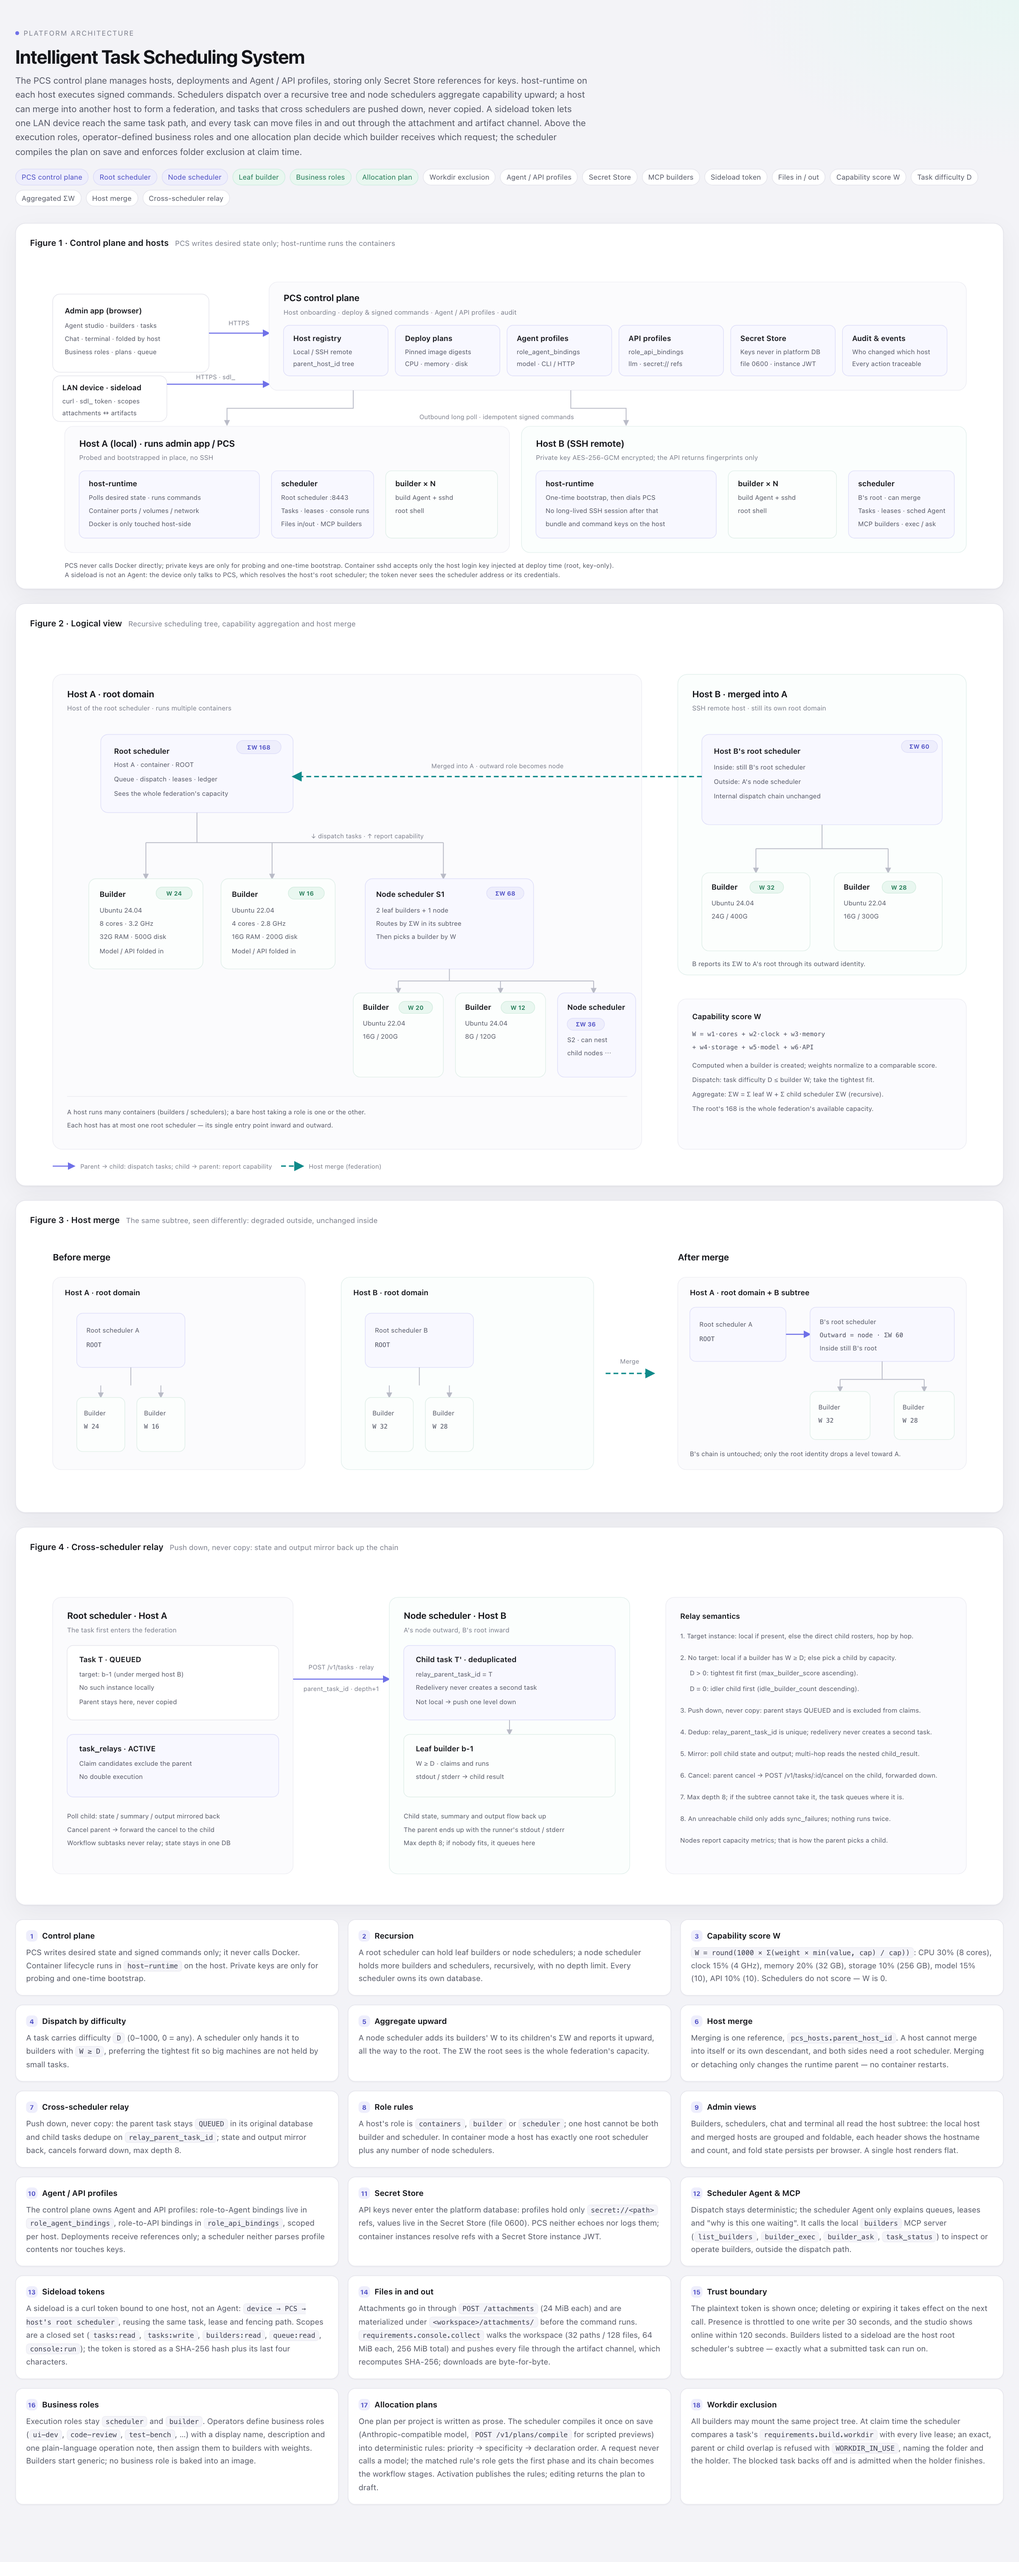
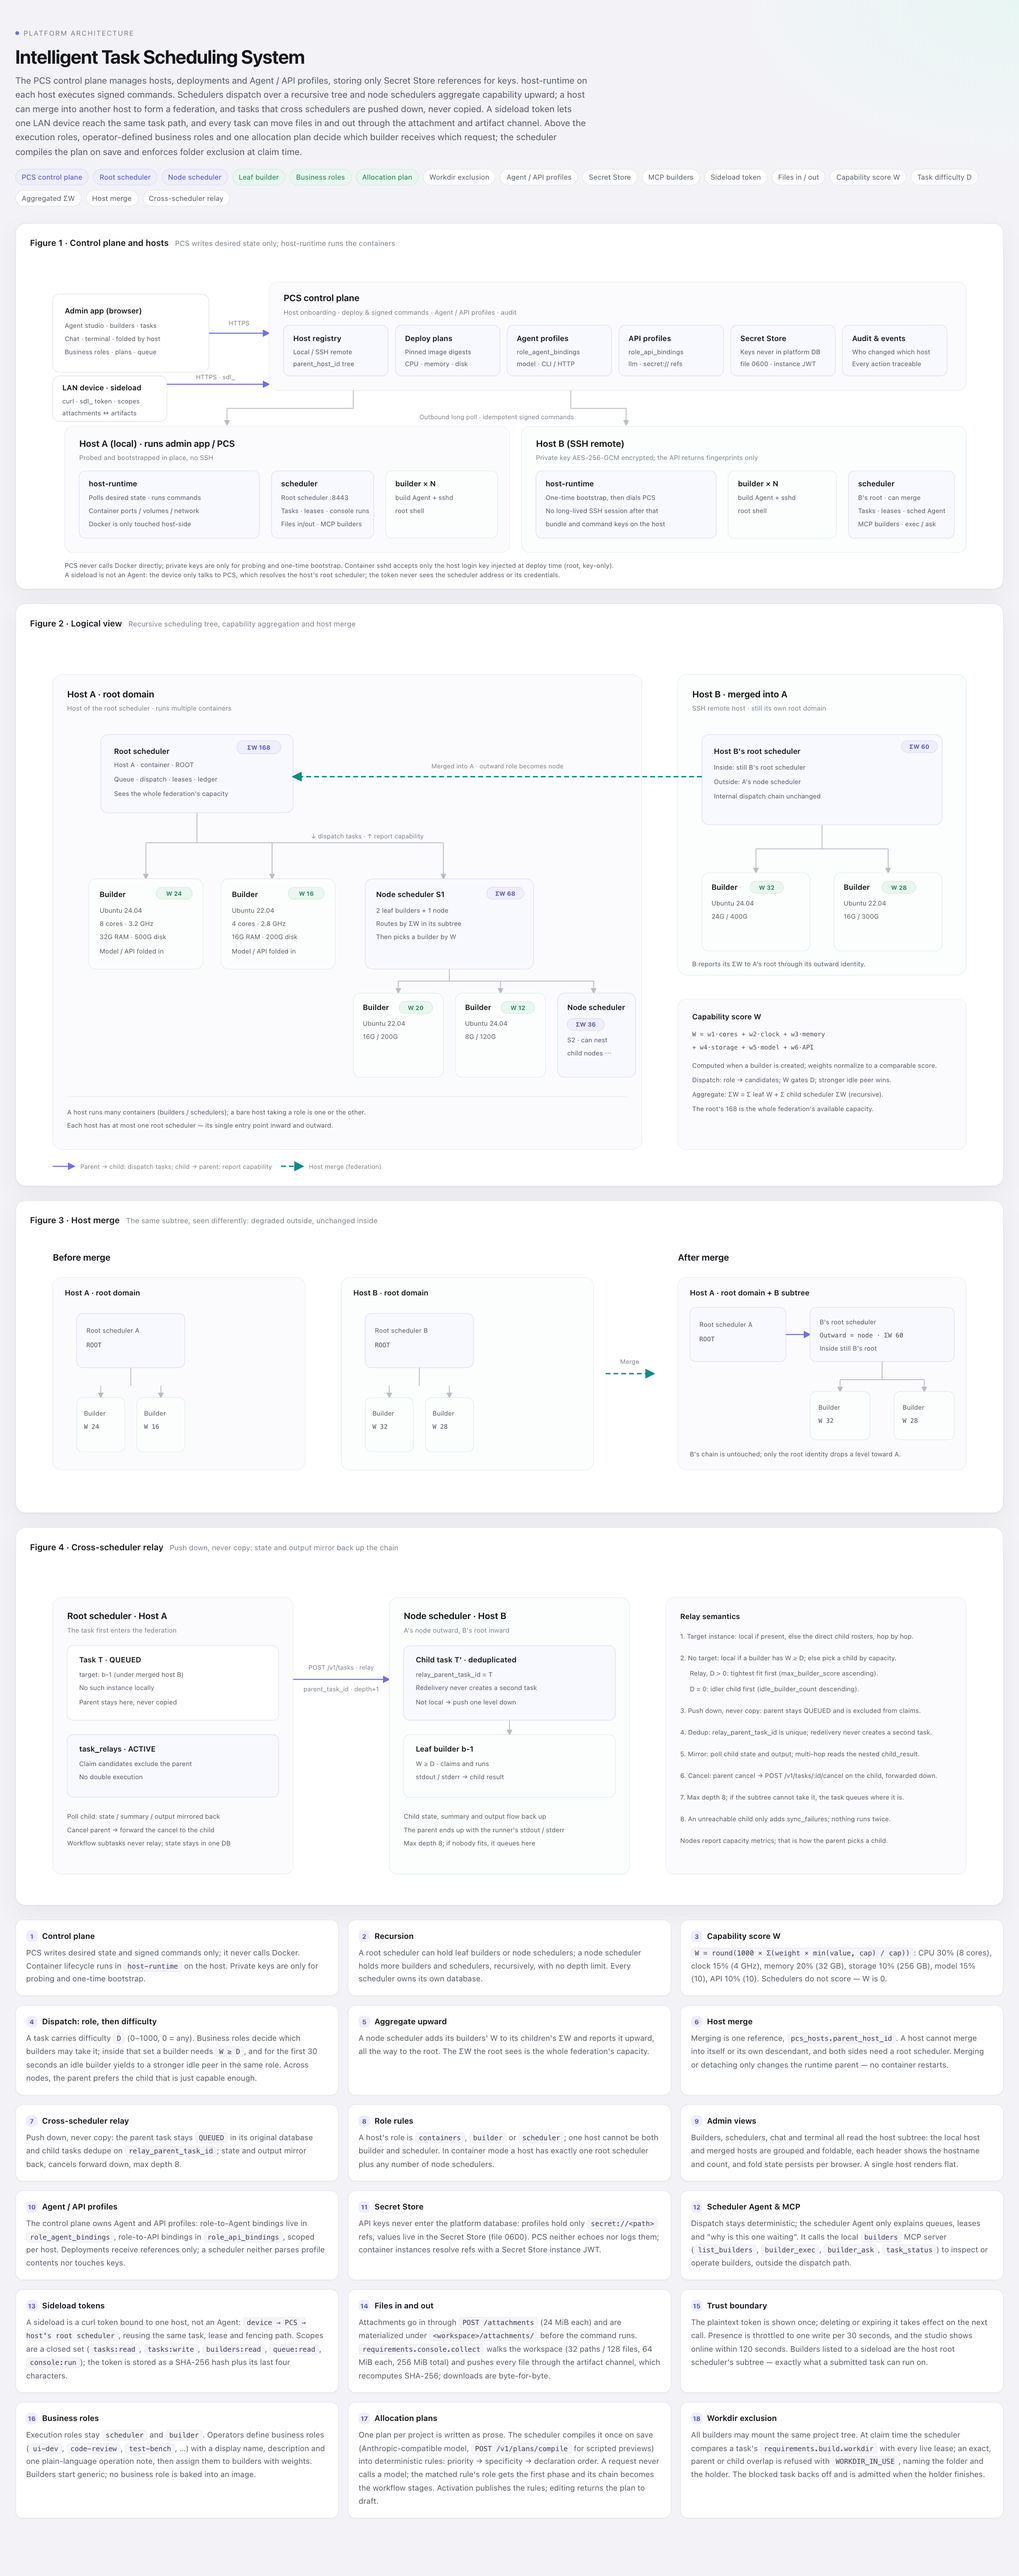
Describe what the capability score decides under role allocation (#3)
* Describe what the capability score decides under role allocation

The W tooltip and the scheduling document still described W as the scheduler's
builder picker. Business roles and the allocation plan now choose the candidate
set, so spell out the four decisions W still makes inside it: the difficulty
gate, deferral to a stronger idle peer in the same business role, cross-node
relay eligibility and the aggregated ΣW capacity view.

* Correct the dispatch description in the architecture diagram

The capability panel, the card and the relay notes still described local
dispatch as "tightest fit". Local claims prefer a stronger idle peer inside the
same business role; tightest fit only orders cross-node relay. Reword both
languages and regenerate the diagram images.

---------

diff --git a/docs/platform-architecture.zh-CN.html b/docs/platform-architecture.zh-CN.html
@@ -440,7 +440,7 @@
         <text class="mono" x="1104" y="662">W = w1·核心数 + w2·主频 + w3·内存</text>
         <text class="mono" x="1104" y="684">  + w4·存储 + w5·模型能力 + w6·API 能力</text>
         <text class="s2" x="1104" y="714">创建构建机时计算上报，权重归一化后得到可比较分值。</text>
-        <text class="s2" x="1104" y="738">派发：任务难度 D ≤ 构建机 W，取余量最小者。</text>
+        <text class="s2" x="1104" y="738">派发：角色定候选，W 卡难度，同角色内强者优先。</text>
         <text class="s2" x="1104" y="762">汇总：ΣW = Σ叶构建机 W + Σ子调度机 ΣW（递归）。</text>
         <text class="s2" x="1104" y="786" fill="#8a8d99">根调度机看到的 168，就是整个联邦的可用能力。</text>
 
@@ -591,7 +591,7 @@
         <text class="t2" x="1084" y="96">中继语义</text>
         <text class="s2" x="1084" y="128">1. 带目标实例：本机有该实例就留本机；否则在直接子结点名册里找，逐跳下推。</text>
         <text class="s2" x="1084" y="164">2. 不带目标实例：本机有在线且 W ≥ D 的构建机就留本机；否则按容量挑子结点。</text>
-        <text class="s2" x="1100" y="190" fill="#8a8d99">D &gt; 0：优先 max_builder_score 刚好够用的（升序）。</text>
+        <text class="s2" x="1100" y="190" fill="#8a8d99">中继 D &gt; 0：优先 max_builder_score 刚好够用的（升序）。</text>
         <text class="s2" x="1100" y="216" fill="#8a8d99">D = 0：优先更闲的子结点（idle_builder_count 降序）。</text>
         <text class="s2" x="1084" y="252">3. 只下推、不复制：父任务保持 QUEUED，领取候选排除。</text>
         <text class="s2" x="1084" y="288">4. 去重：子任务用 relay_parent_task_id 唯一约束，重复投递不会建第二条。</text>
@@ -619,8 +619,8 @@
       <p><code>W = round(1000 × Σ(权重 × min(值, 上限) / 上限))</code>：CPU 30%（8 核）、频率 15%（4 GHz）、内存 20%（32 GB）、存储 10%（256 GB）、模型 15%（10）、API 10%（10）。调度机不参与 W，固定 0。</p>
     </article>
     <article class="card">
-      <h3><i>4</i>按难度派发</h3>
-      <p>任务带难度 <code>D</code>（0–1000，0 = 不限）。调度机只把任务交给 <code>W ≥ D</code> 的构建机，并优先选余量最小的，避免大机器被小任务占住。</p>
+      <h3><i>4</i>先角色、后难度</h3>
+      <p>任务带难度 <code>D</code>（0–1000，0 = 不限）。业务角色决定哪些构建机可以接；在候选集内还需 <code>W ≥ D</code>，且任务出现后的前 30 秒，空闲构建机会让给同一角色里 W 更高的空闲机。跨节点时，父结点优先选刚好够用的子结点。</p>
     </article>
     <article class="card">
       <h3><i>5</i>逐级汇总</h3>

diff --git a/docs/platform-architecture.html b/docs/platform-architecture.html
@@ -443,7 +443,7 @@
         <text class="mono" x="1104" y="662">W = w1·cores + w2·clock + w3·memory</text>
         <text class="mono" x="1104" y="684">  + w4·storage + w5·model + w6·API</text>
         <text class="s2" x="1104" y="714">Computed when a builder is created; weights normalize to a comparable score.</text>
-        <text class="s2" x="1104" y="738">Dispatch: task difficulty D ≤ builder W; take the tightest fit.</text>
+        <text class="s2" x="1104" y="738">Dispatch: role → candidates; W gates D; stronger idle peer wins.</text>
         <text class="s2" x="1104" y="762">Aggregate: ΣW = Σ leaf W + Σ child scheduler ΣW (recursive).</text>
         <text class="s2" x="1104" y="786" fill="#8a8d99">The root's 168 is the whole federation's available capacity.</text>
 
@@ -594,7 +594,7 @@
         <text class="t2" x="1084" y="96">Relay semantics</text>
         <text class="s2" x="1084" y="128">1. Target instance: local if present, else the direct child rosters, hop by hop.</text>
         <text class="s2" x="1084" y="164">2. No target: local if a builder has W ≥ D; else pick a child by capacity.</text>
-        <text class="s2" x="1100" y="190" fill="#8a8d99">D &gt; 0: tightest fit first (max_builder_score ascending).</text>
+        <text class="s2" x="1100" y="190" fill="#8a8d99">Relay, D &gt; 0: tightest fit first (max_builder_score ascending).</text>
         <text class="s2" x="1100" y="216" fill="#8a8d99">D = 0: idler child first (idle_builder_count descending).</text>
         <text class="s2" x="1084" y="252">3. Push down, never copy: parent stays QUEUED and is excluded from claims.</text>
         <text class="s2" x="1084" y="288">4. Dedup: relay_parent_task_id is unique; redelivery never creates a second task.</text>
@@ -622,8 +622,8 @@
       <p><code>W = round(1000 × Σ(weight × min(value, cap) / cap))</code>: CPU 30% (8 cores), clock 15% (4 GHz), memory 20% (32 GB), storage 10% (256 GB), model 15% (10), API 10% (10). Schedulers do not score — W is 0.</p>
     </article>
     <article class="card">
-      <h3><i>4</i>Dispatch by difficulty</h3>
-      <p>A task carries difficulty <code>D</code> (0–1000, 0 = any). A scheduler only hands it to builders with <code>W ≥ D</code>, preferring the tightest fit so big machines are not held by small tasks.</p>
+      <h3><i>4</i>Dispatch: role, then difficulty</h3>
+      <p>A task carries difficulty <code>D</code> (0–1000, 0 = any). Business roles decide which builders may take it; inside that set a builder needs <code>W ≥ D</code>, and for the first 30 seconds an idle builder yields to a stronger idle peer in the same role. Across nodes, the parent prefers the child that is just capable enough.</p>
     </article>
     <article class="card">
       <h3><i>5</i>Aggregate upward</h3>

diff --git a/admin-app/src/i18n.tsx b/admin-app/src/i18n.tsx
@@ -978,7 +978,7 @@ const ZH: Record<string, string> = {
   "Why is this task queued?": "为什么这个任务在排队？",
   "With SSH off, sshd is not started and no SSH port is mapped; with chat off, the builder no longer accepts chat tasks. Both can be changed later on the detail page, which recreates the container.": "关闭 SSH 后不再启动 sshd，也不映射 SSH 端口；关闭对话后构建机不再接收聊天任务。之后可以在详情页修改，修改会重建容器。",
   "With SSH off, sshd is not started and no SSH port is mapped; with chat off, the scheduler no longer accepts chat tasks. Both can be changed later on the detail page, which recreates the container.": "关闭 SSH 后不再启动 sshd，也不映射 SSH 端口；关闭对话后调度机不再接收聊天任务。之后可以在详情页修改，修改会重建容器。",
-  "Work capacity: the scheduler picks builders by task difficulty": "工作能力值：调度机按任务难度选择构建机",
+  "Work capacity: gates task difficulty and prefers stronger idle builders inside the same business role": "工作能力值：用于任务难度门槛，并在同一业务角色内优先选择更强的空闲构建机",
   "Workdir template": "工作目录模板",
   "Workflow": "工作流",
   "Working": "工作",

diff --git a/admin-app/src/pages/Builders.tsx b/admin-app/src/pages/Builders.tsx
@@ -115,7 +115,7 @@ function BuilderRow({ builder }: { builder: Instance }) {
           <Link className="strong" to={`/builders/${builder.id}`}>{builder.name}</Link>
           <Badge value={builder.state} />
           {builder.capability_score !== undefined && (
-            <Tag tone="accent" title={t("Work capacity: the scheduler picks builders by task difficulty")}>
+            <Tag tone="accent" title={t("Work capacity: gates task difficulty and prefers stronger idle builders inside the same business role")}>
               W {builder.capability_score}
             </Tag>
           )}

diff --git a/docs/scheduling-algorithm.md b/docs/scheduling-algorithm.md
@@ -135,6 +135,19 @@ Local eligibility also accepts `max(dispatch, live) ≥ D`, so a builder that ju
 
 Any two scores are comparable only when their `capability_schema_version` matches. The implementation uses version `1` ([`repo/resources.ts:496`](../scheduler/src/repo/resources.ts#L496)).
 
+### 2.5 What `W` decides under business-role allocation
+
+Business roles and the project's allocation plan choose the candidate set; `W` never overrides them. Inside that set it still decides four things:
+
+| Decision | Rule | Where |
+|---|---|---|
+| Difficulty eligibility | A task with difficulty `D` (0 = unlimited) is skipped while `D > W_dispatch` | [`claim.ts:340`](../scheduler/src/core/claim.ts#L340) |
+| Deferral to a stronger idle peer | During the first 30 s of a task, an idle instance declines it when a strictly higher-`W`, completely idle peer **assigned to the same business role** can take it | [`claim.ts:187`](../scheduler/src/core/claim.ts#L187) |
+| Cross-node relay | A parent pushes a task down only to a child whose `max_builder_score ≥ D` | [`relay.ts:143`](../scheduler/src/core/relay.ts#L143) |
+| Capacity view | `local_score` / `subtree_score` aggregate into `ΣW` on host and scheduler cards | [`repo/federation.ts`](../scheduler/src/repo/federation.ts) |
+
+The admin app no longer asks for task difficulty, so tasks created there carry `D = 0` and pass the first gate; scripts that call `POST /v1/tasks` directly can still set it. Deferral checks `instance_roles`, so an idle builder outside the task's business role never blocks a qualified one: roles decide who may take the task, and `W` only picks the stronger hardware among them.
+
 ---
 
 ## 3. Static mode

diff --git a/docs/scheduling-algorithm.zh-CN.md b/docs/scheduling-algorithm.zh-CN.md
@@ -135,6 +135,19 @@ H_res = clamp(1 − max(U_mem, U_cpu), h_min, 1)
 
 任意两个分数只有在 `capability_schema_version` 相同时才可比较。当前实现使用版本 `1`（[`repo/resources.ts:496`](../scheduler/src/repo/resources.ts#L496)）。
 
+### 2.5 业务角色分配下 `W` 还决定什么
+
+候选集由业务角色和项目的分配计划决定，`W` 不能越过它们。在候选集内部，`W` 仍决定四件事：
+
+| 决策 | 规则 | 代码位置 |
+|---|---|---|
+| 难度资格 | 任务带难度 `D`（0 表示不限）时，`D > W_dispatch` 的实例跳过该任务 | [`claim.ts:340`](../scheduler/src/core/claim.ts#L340) |
+| 让给更强的空闲机 | 任务出现后的前 30 秒内，若存在一个 `W` 严格更高、完全空闲、**且被分配了同一业务角色**的对等实例，当前实例先不领取 | [`claim.ts:187`](../scheduler/src/core/claim.ts#L187) |
+| 跨节点中继 | 父节点只把任务下推给 `max_builder_score ≥ D` 的子节点 | [`relay.ts:143`](../scheduler/src/core/relay.ts#L143) |
+| 容量视图 | `local_score` / `subtree_score` 汇总为主机卡片与调度机卡片上的 `ΣW` | [`repo/federation.ts`](../scheduler/src/repo/federation.ts) |
+
+管理界面已不再填写任务难度，所以界面创建的任务带 `D = 0`，直接通过第一道门槛；直接调用 `POST /v1/tasks` 的脚本仍可设置难度。让让逻辑会校验 `instance_roles`：不在任务业务角色内的空闲构建机永远挡不住一台合格实例——角色决定"谁可以接"，`W` 只在它们之间挑硬件更强的那台。
+
 ---
 
 ## 3. 静态模式
